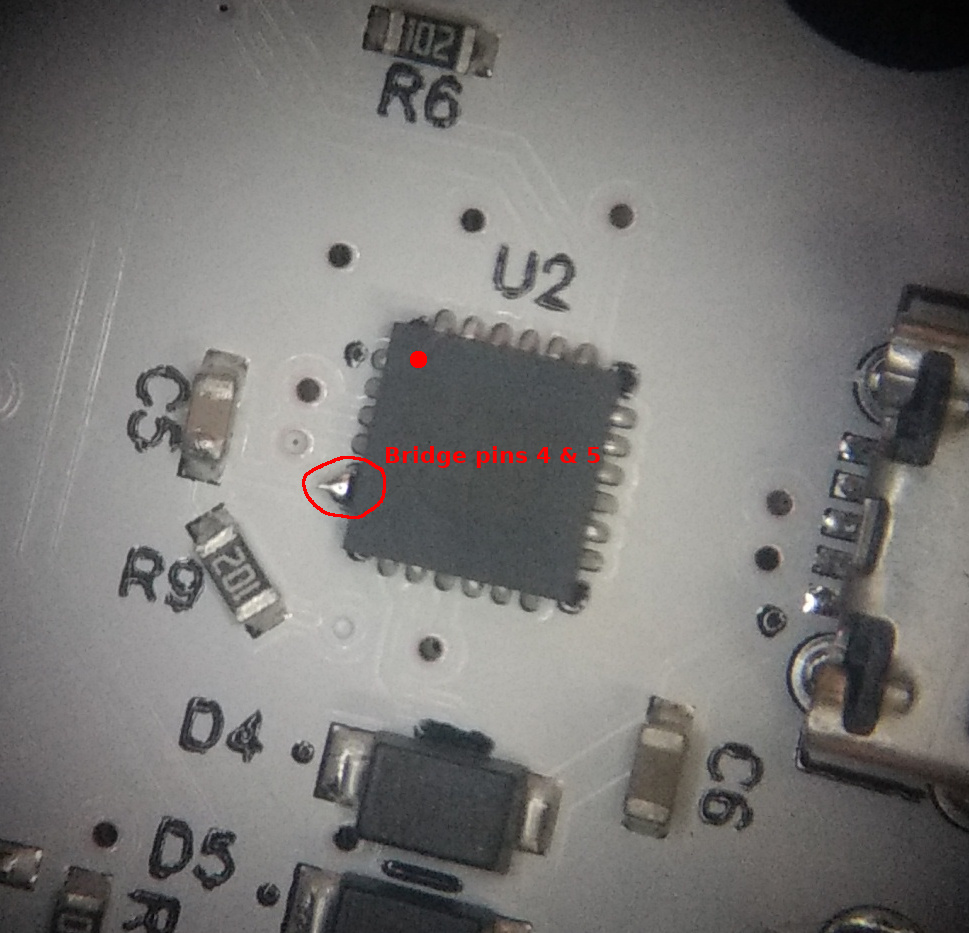
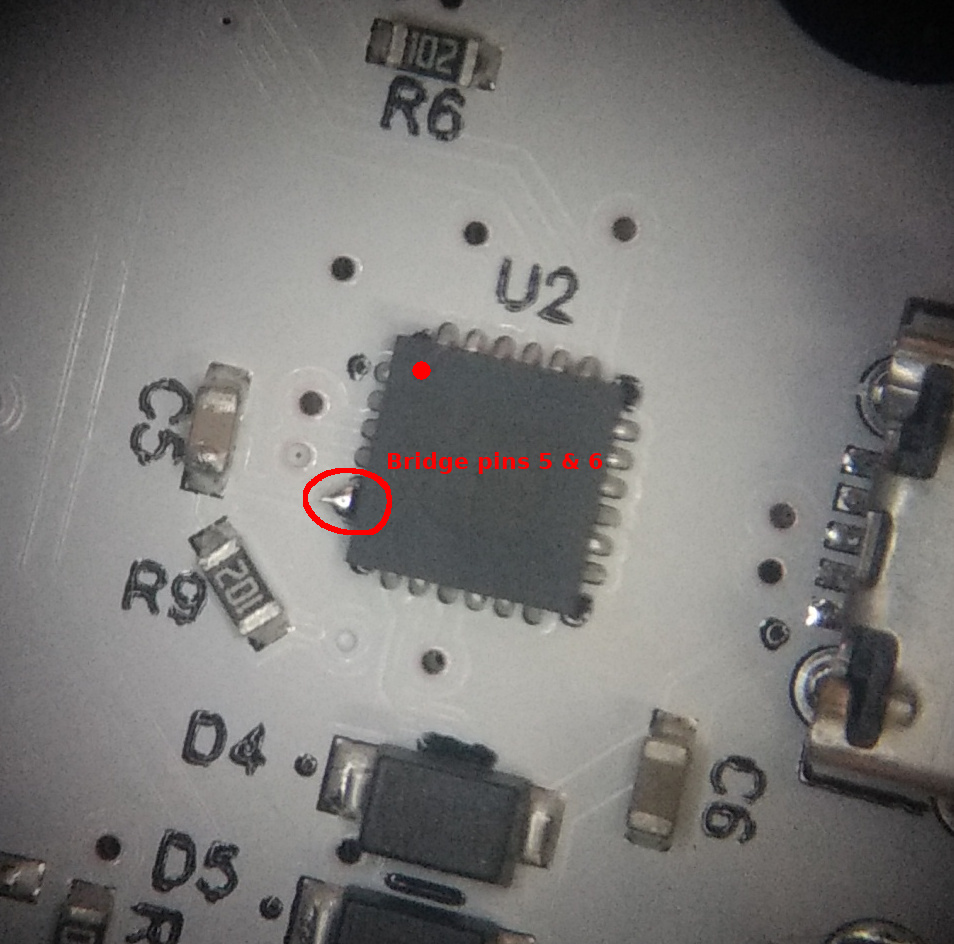
Update README and CP2102 fix image cuz I can't count

diff --git a/FN32ROV-1.3-Q24/README.md b/FN32ROV-1.3-Q24/README.md
@@ -4,9 +4,9 @@ This is the second official public release of FujiNet hardware and is officially
 
 ![OSHWA Mark](https://github.com/FujiNetWIFI/fujinet-hardware/raw/master/images/oshwa-mark_us000651.png)
 
-# BUGFIX
+# IMPORTANT BUGFIXES
 
-The original release of v1.3 had an error that could cause a failure to flash the esp32 from some computers while working fine from others. This was due to leaving the CP2102 VIO pin unconnected. The design files have been updated to coonect this pin to VDD. Boards made with the error can be fixed by creating a solder bridge from pin 4 to pin 5 on U2. See [CP2102 Bodge Image](https://github.com/FujiNetWIFI/fujinet-hardware/blob/master/FN32ROV-1.3-Q24/CP210x_RESET-BUG_FIX.jpg)
+The original release of v1.3 had an error that could cause a failure to flash the esp32 from some computers while working fine from others. This was due to leaving the CP2102 VIO pin unconnected. The design files have been updated to connect VIO to VDD. Boards made with the error can be fixed by creating a solder bridge from pin 5 to pin 6 on U2. See [CP2102 Bodge Image](https://github.com/FujiNetWIFI/fujinet-hardware/blob/master/FN32ROV-1.3-Q24/CP210x_RESET-BUG_FIX.jpg)
 
 # Changes from 1.0
  * SIO lines connected to ESP32 through two 74LS07
